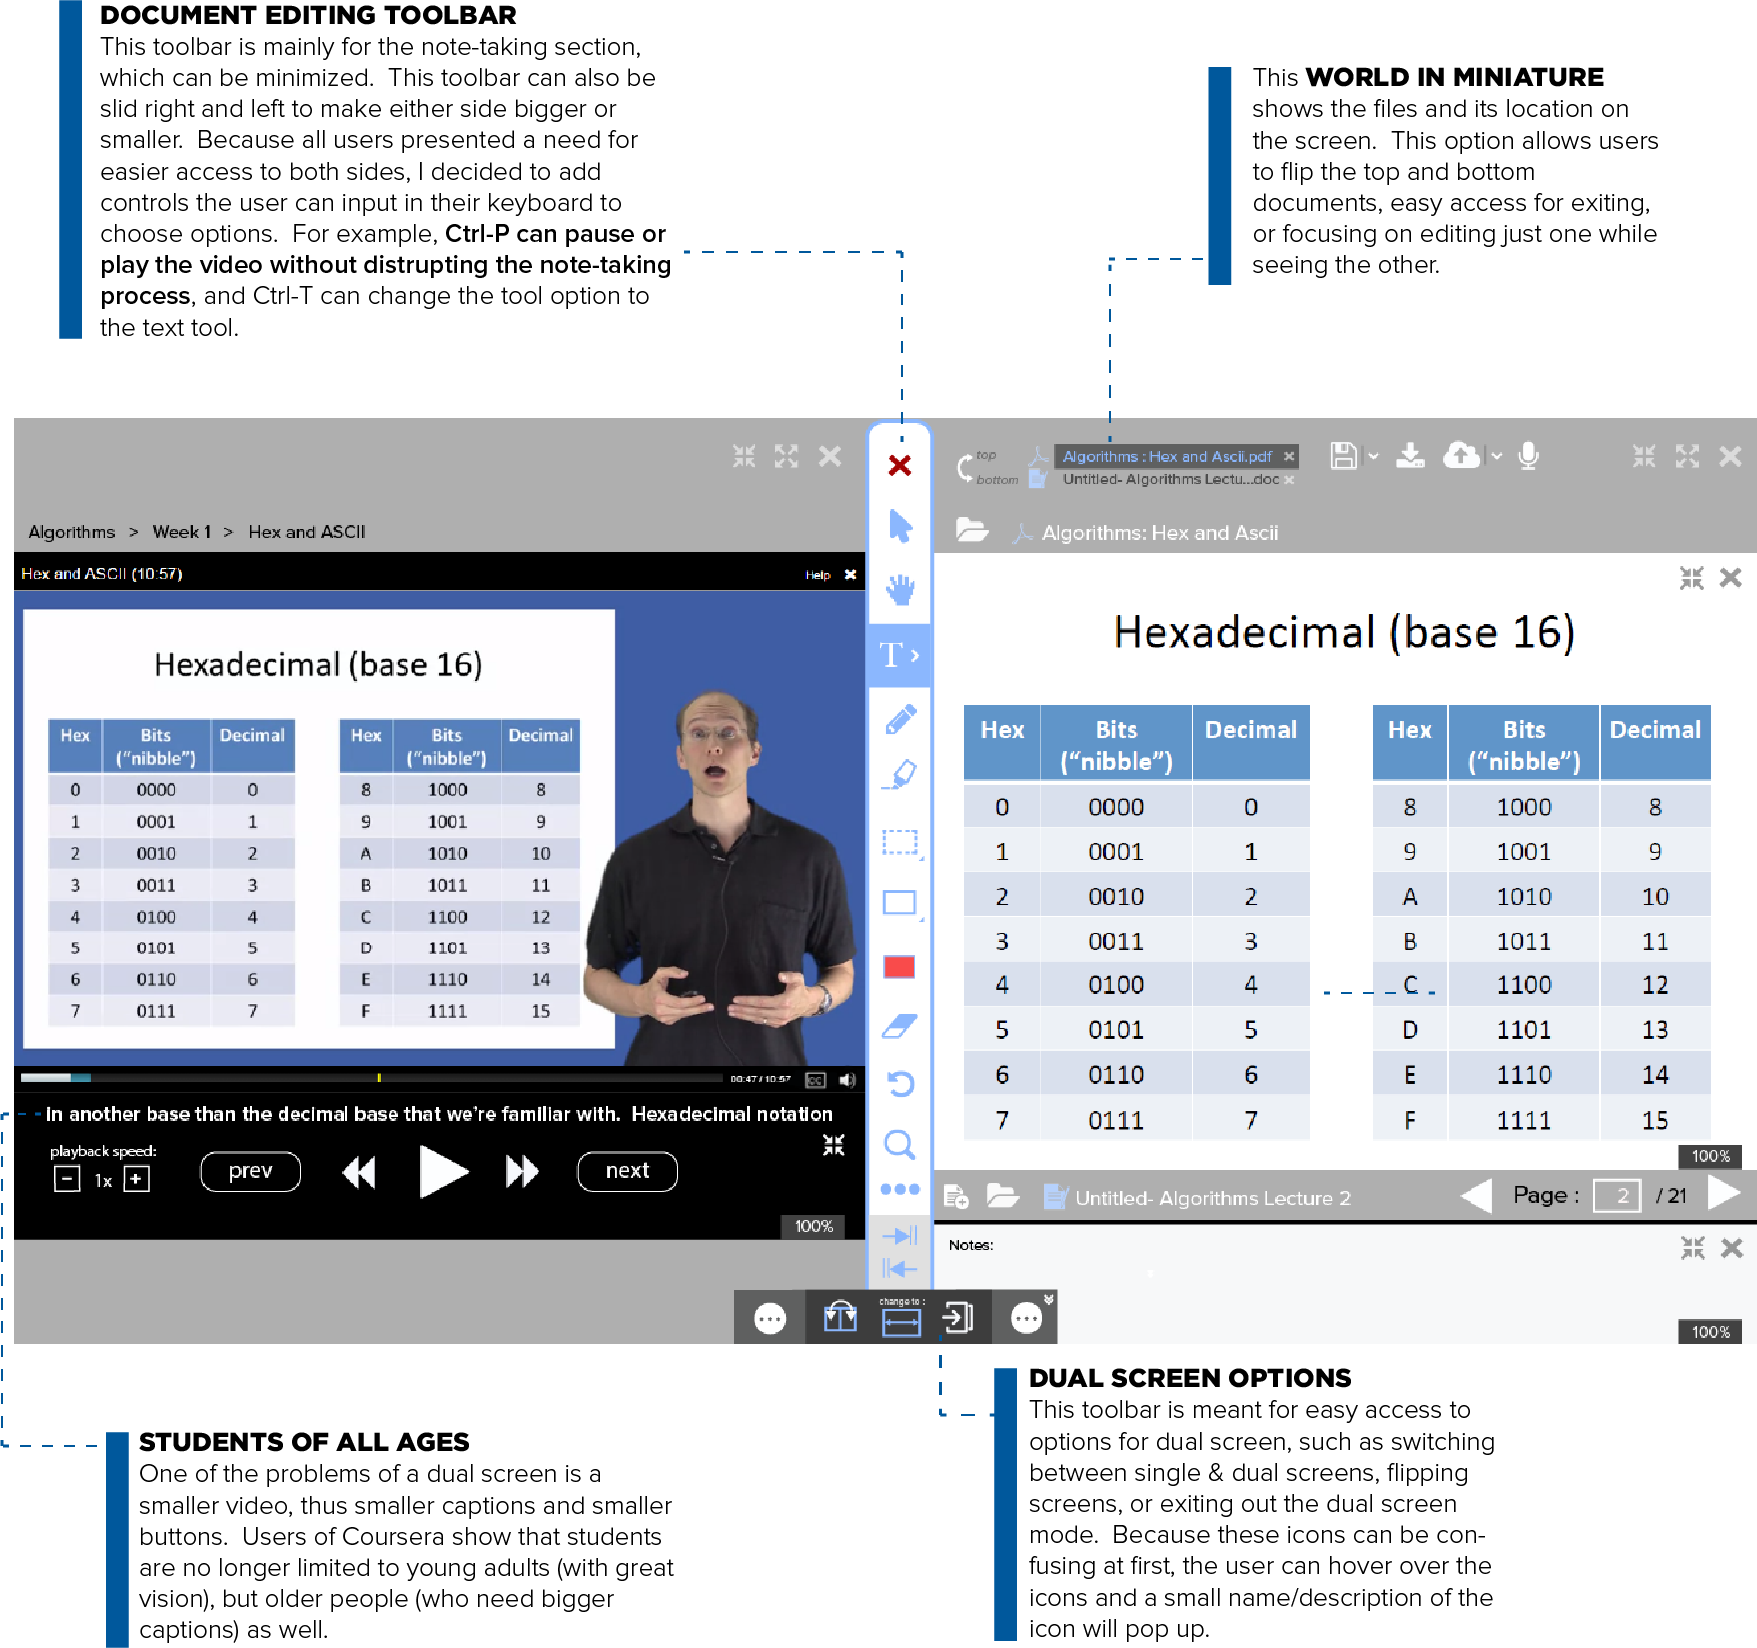
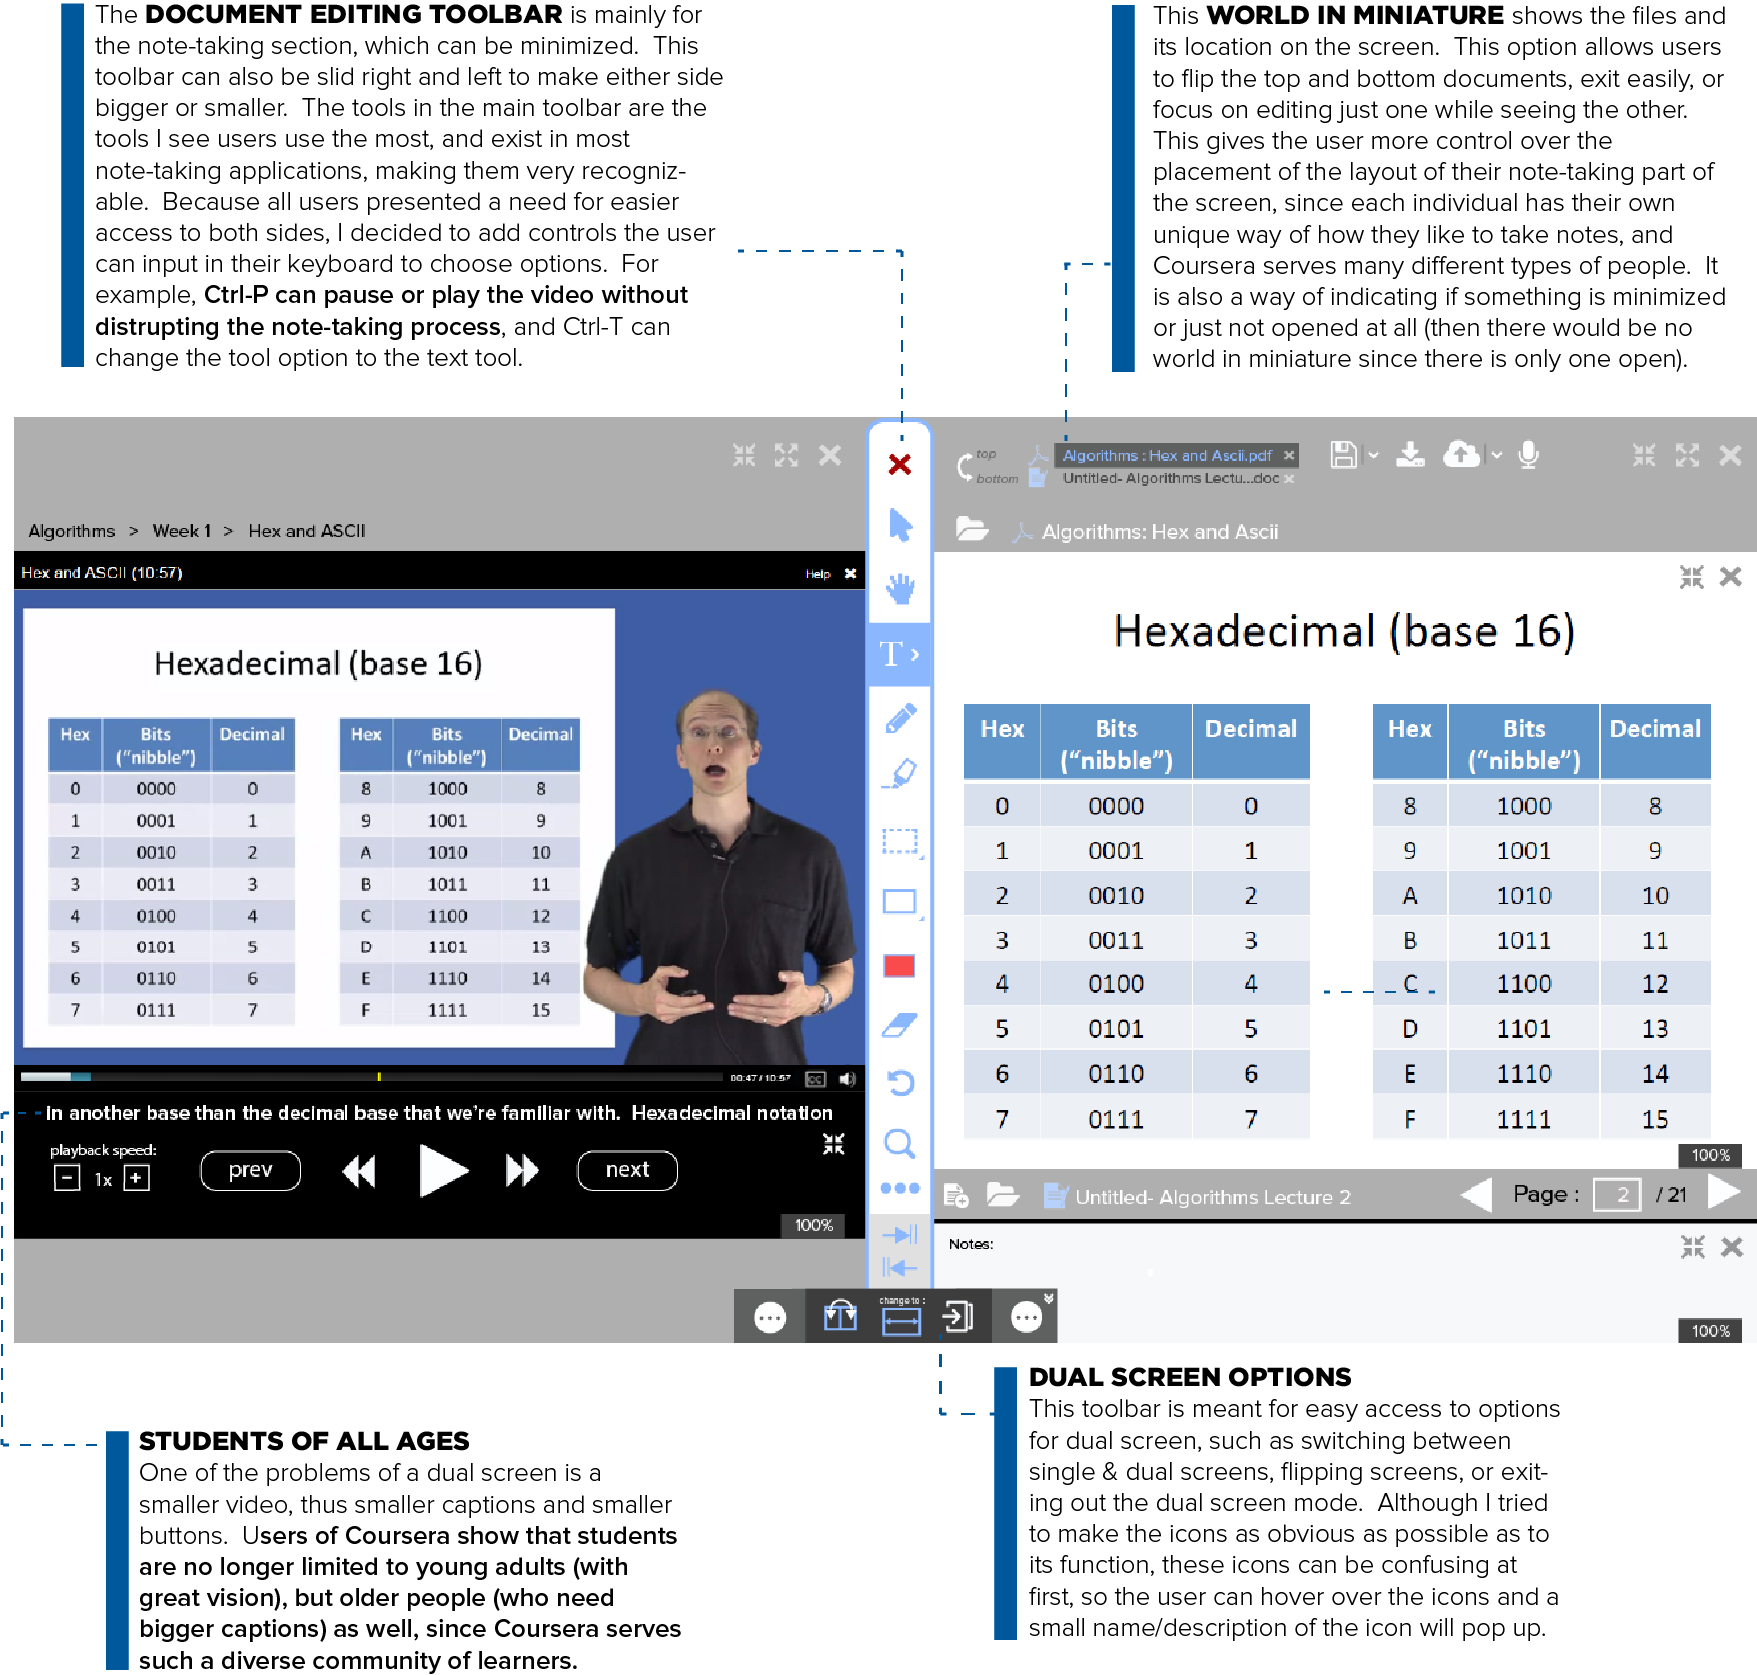
change younote

Changed region(s): [[0.0, 0.2476, 1.0, 1.0], [0.0307, 0.0, 0.3995, 0.2166], [0.6147, 0.0, 0.9835, 0.2166]]

diff --git a/ux/younote.html b/ux/younote.html
@@ -192,7 +192,7 @@ j=d.createElement(s),dl=l!='dataLayer'?'&l='+l:'';j.async=true;j.src=
 <div class="description">
     <div class="container">
         <div class="col-md-1 col-lg-1"></div>
-    <p class="col-md-10 col-lg-10 col-sm-12 col-xs-12">People love Coursera for its free high quality education, and Coursera's students, no matter what age, are dedicated learners.  However, I noticed that when I (and others as well) tried to take notes on the online lectures in Coursera, problems came up.  My screen was too small to easily move between a PDF file and a video, and switching between screens and trying to catch (and missing)  what the professor just said caused even more problems.  That's why I decided to create <span>YouNote, a redesign of the note-taking experience on Coursera</span> for the <a href="http://kpcbfellows.com/">KPBC Design Fellowship</a>.  I designed to optimize the note-taking experience by giving faster and easier control of the video and note-taking, without disrupting the note-taking process.</p>
+    <p class="col-md-10 col-lg-10 col-sm-12 col-xs-12">People love Coursera for its free high quality education, and Coursera's students, no matter what age, are dedicated learners.  However, I noticed that when I (and others as well) tried to take notes on the online lectures in Coursera, problems came up.  My screen was too small to easily move between a PDF file and a video, and switching between screens and trying to catch (and missing)  what the professor just said caused even more problems.  That's why I decided to create <span>YouNote, a redesign of the note-taking experience on Coursera</span> for the <a href="http://kpcbfellows.com/">KPBC Design Fellowship</a>.  I designed to optimize the note-taking experience by giving faster and easier control of the video and note-taking, without disrupting the note-taking and lecture watching processes.</p>
         <div class="col-md-1 col-lg-1"></div>
     </div>
     <br><br>
@@ -205,7 +205,7 @@ j=d.createElement(s),dl=l!='dataLayer'?'&l='+l:'';j.async=true;j.src=
         <p id="section_title">IDEATION  &  THE PROCESS</p>
             <div class="row">
                 <div class="col-md-1 col-lg-1"></div>
-                <p class="col-md-10 col-lg-10 col-sm-12 col-xs-12">User Research, Contextual Interviews, Wireframing, Prototyping, Iterative Design</p>
+                <p class="col-md-10 col-lg-10 col-sm-12 col-xs-12">User Research, Contextual Interviews, Heuristic Evaluation, Wireframing, Prototyping, Iterative Design</p>
             </div>
         <div class="row">
             <div class="col-md-1 col-lg-1"></div>
@@ -213,54 +213,54 @@ j=d.createElement(s),dl=l!='dataLayer'?'&l='+l:'';j.async=true;j.src=
  
                 <div id="lightbox_normal" class="col-md-7 col-lg-7 col-xs-12 col-sm-12">
                     <ul>
-                        <li><img src="../images/kpcb/user2%20thumbnail.jpg" data-large="../images/kpcb/user2.jpg">
+                        <li><img src="../images/kpcb/user1%20thumbnail.jpg" data-large="../images/kpcb/user1.jpg">
                                 <div class="image_title">
-                                    <h5 class="title">logo sketches</h5>
+                                    <h5 class="title">user research: user 1</h5>
                                 </div>
                         </li>
                         <li><img src="../images/kpcb/user2 thumbnail.jpg" data-large= "../images/kpcb/user2.jpg">
                                 <div class="image_title">
-                                    <h5 class="title">logo showing</h5>
+                                    <h5 class="title">user research: user 2</h5>
                                 </div>
                         </li>
                         <li><img src="../images/kpcb/user2.2%20thumbnail.jpg" data-large= "../images/kpcb/user2.2.jpg">
                                 <div class="image_title">
-                                    <h5 class="title">storyboard (1)</h5>
+                                    <h5 class="title">user research: user 2</h5>
                                 </div>
                         </li>
                         <li><img src="../images/kpcb/user3%20thumbnail.jpg" data-large= "../images/kpcb/user3.jpg">
                                 <div class="image_title">
-                                    <h5 class="title">storyboard (2)</h5>
+                                    <h5 class="title">user research: user 3</h5>
                                 </div>
                         </li>
                         <li><img src="../images/kpcb/wireframe1%20thumbnail.jpg" data-large= "../images/kpcb/wireframe1.jpg">
                                 <div class="image_title">
-                                    <h5 class="title">storyboard (3)</h5>
+                                    <h5 class="title">wireframes brainstorming</h5>
                                 </div>
                         </li>
                         <li><img src="../images/kpcb/prototype2%20thumbnail.jpg" data-large= "../images/kpcb/prototype2.jpg">
                                 <div class="image_title">
-                                    <h5 class="title">features brainstorming (1)</h5>
+                                    <h5 class="title">features brainstorming</h5>
                                 </div>
                         </li>
                         <li><img src="../images/kpcb/prototype3%20thumbnail.jpg" data-large= "../images/kpcb/prototype3.jpg">
                                 <div class="image_title">
-                                    <h5 class="title">features brainstorming (2)</h5>
+                                    <h5 class="title">features brainstorming</h5>
                                 </div>
                         </li>
                          <li><img src="../images/kpcb/prototype4%20thumbnail.jpg" data-large="../images/kpcb/prototype4.jpg">
                                 <div class="image_title">
-                                    <h5 class="title">User flow and features</h5>
+                                    <h5 class="title">features brainstorming</h5>
                                 </div>
                         </li>
                         <li><img src="../images/kpcb/worldinmini1.2.png" data-large="../images/kpcb/worldinmini2.2.png">
                                 <div class="image_title">
-                                    <h5 class="title">homescreen (prototype)</h5>
+                                    <h5 class="title">First iteration: world in miniature</h5>
                                 </div>
                         </li>
                         <li><img src="../images/kpcb/worldinmini2.1.png" data-large="../images/kpcb/worldinmini1.3.png">
                                 <div class="image_title">
-                                    <h5 class="title">calendar (prototype)</h5>
+                                    <h5 class="title">first iteration: world in miniature</h5>
                                 </div>
                         </li>
 
@@ -279,7 +279,7 @@ j=d.createElement(s),dl=l!='dataLayer'?'&l='+l:'';j.async=true;j.src=
         <div class="row">
             <div class="col-md-1 col-lg-1"></div>
     <p class="col-md-10 col-lg-10 col-sm-12 col-xs-12">
-    The point of this redesign is because users who used Coursera and took notes with their computers/laptops presented a need for <b>easier and faster control of both video and note-taking, without disrupting the note-taking process</b>.  Without YouNote, users had the constraints of slow movement due to using a mouse or trackpad to switch screens, then control each application, whether it was the video or the place where they took notes.  Also, users often faced the constraints of a small screen, because most would watch on their laptops or computer screens.  Therefore, the features and redesign reflects these user needs to give users of Coursera an easier experience with taking notes while watching a video lecture.  A couple of features include combining both the video and the note-taking into one screen, having bigger buttons and captions, and using keyboard controls, like Ctrl-T for text, and Ctrl-P to pause/play the video.  One of the challenges of this redesign was giving a lot of user control and freedom, such as being able to switch screens, because the users of Coursera are very diverse and have a lot of opinions and preferences on where everything should be, yet being able to maintain simplicity and usability for a faster experience.<br>
+    The motivation of this redesign comes from users who use Coursera and take notes with their computers/laptops, who presented a need for <b>easier and faster control of both video and note-taking, without disrupting the note-taking and lecture-watching processes</b>.  Users had the constraints of slow movement due to using a mouse or trackpad to switch screens, then attempting to control each application, whether it was the video or the place where they took notes.  Also, users often faced the constraints of a small screen, because most would watch on their laptops or computer screens.  Therefore, the features and redesign reflects these user needs to give users of Coursera an easier experience with taking notes while watching a video lecture.  A couple of features include combining both the video and the note-taking into one screen, having bigger buttons and captions, and using keyboard controls, like Ctrl-T for text, and Ctrl-P to pause/play the video.  One of the challenges of this redesign was giving a lot of user control and freedom, such as being able to choose where the toolbar should go, because Coursera serves a diverse community of learners who have a lot of opinions and preferences on where everything should be, yet being able to maintain simplicity and usability for a faster experience.<br>
 </p>
             <div class="col-md-1 col-lg-1"></div>
             </div>
